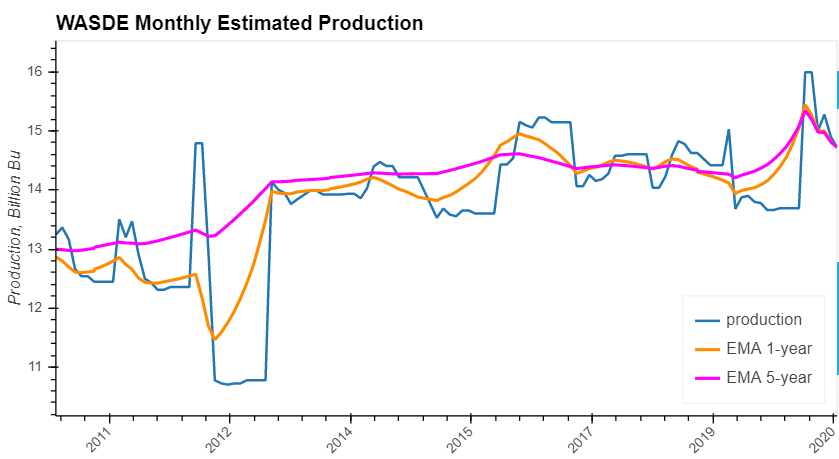
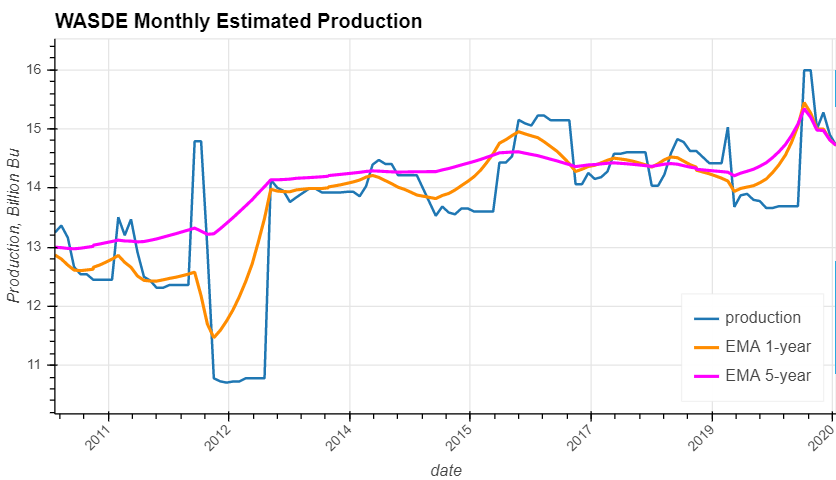
update to charts

Changed region(s): [[0.0, 0.0, 1.0, 1.0], [0.311, 0.671, 0.3421, 0.7015]]

diff --git a/notebooks/libs/signals.py b/notebooks/libs/signals.py
@@ -1,6 +1,6 @@
 # Function to graph up Exponential Moving Averages for the monthly WASDE estimates
 def wasde_monthly_ma():
-    
+
     # pull in the data from the consolidated wasde monthly reports
     clean_data_path = Path('../../data/clean_data/monthly_wasde_reports.csv')
 
@@ -29,4 +29,4 @@ def wasde_monthly_ma():
     ewm5_plot = ewm5['EMA 5-year'].hvplot(title='WASDE Monthly Estimated Production', ylabel='Production, Billion Bu', color='magenta', line_width=2.5)
 
     # return the combined plot of moving averages
-    return(prod_plot * ewm1_plot * ewm5_plot).opts(frame_height=300, legend_position='bottom_right')
+    return (prod_plot * ewm1_plot * ewm5_plot).opts(frame_height=300, legend_position='bottom_right', show_grid=True)
